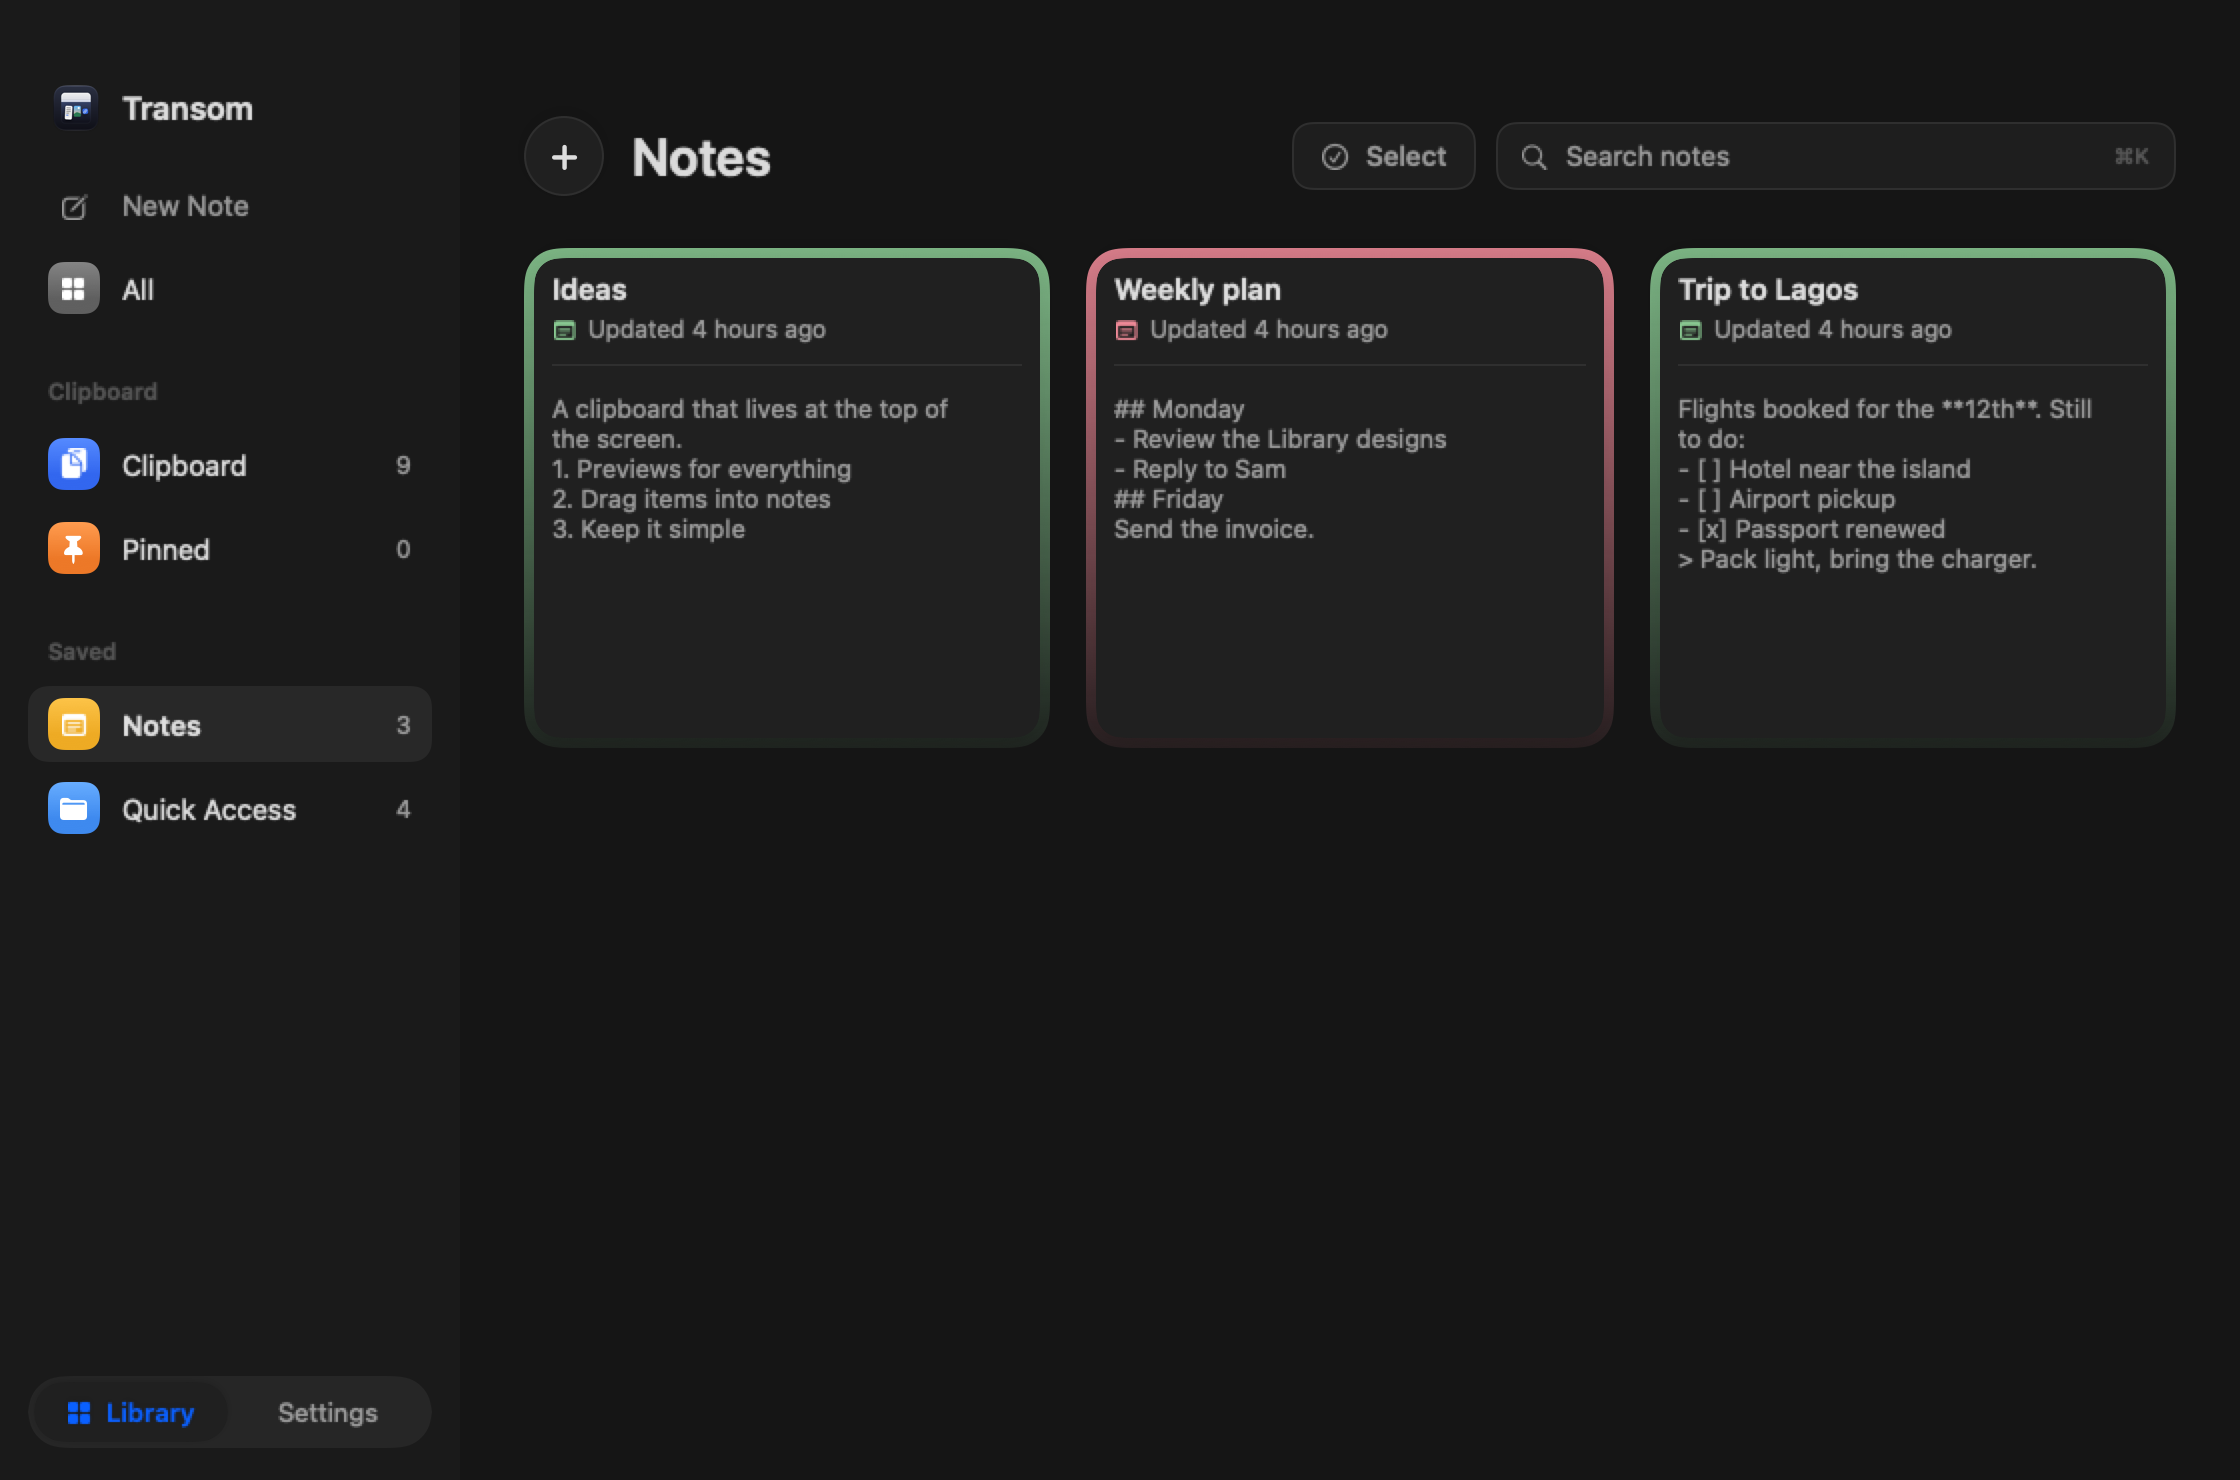
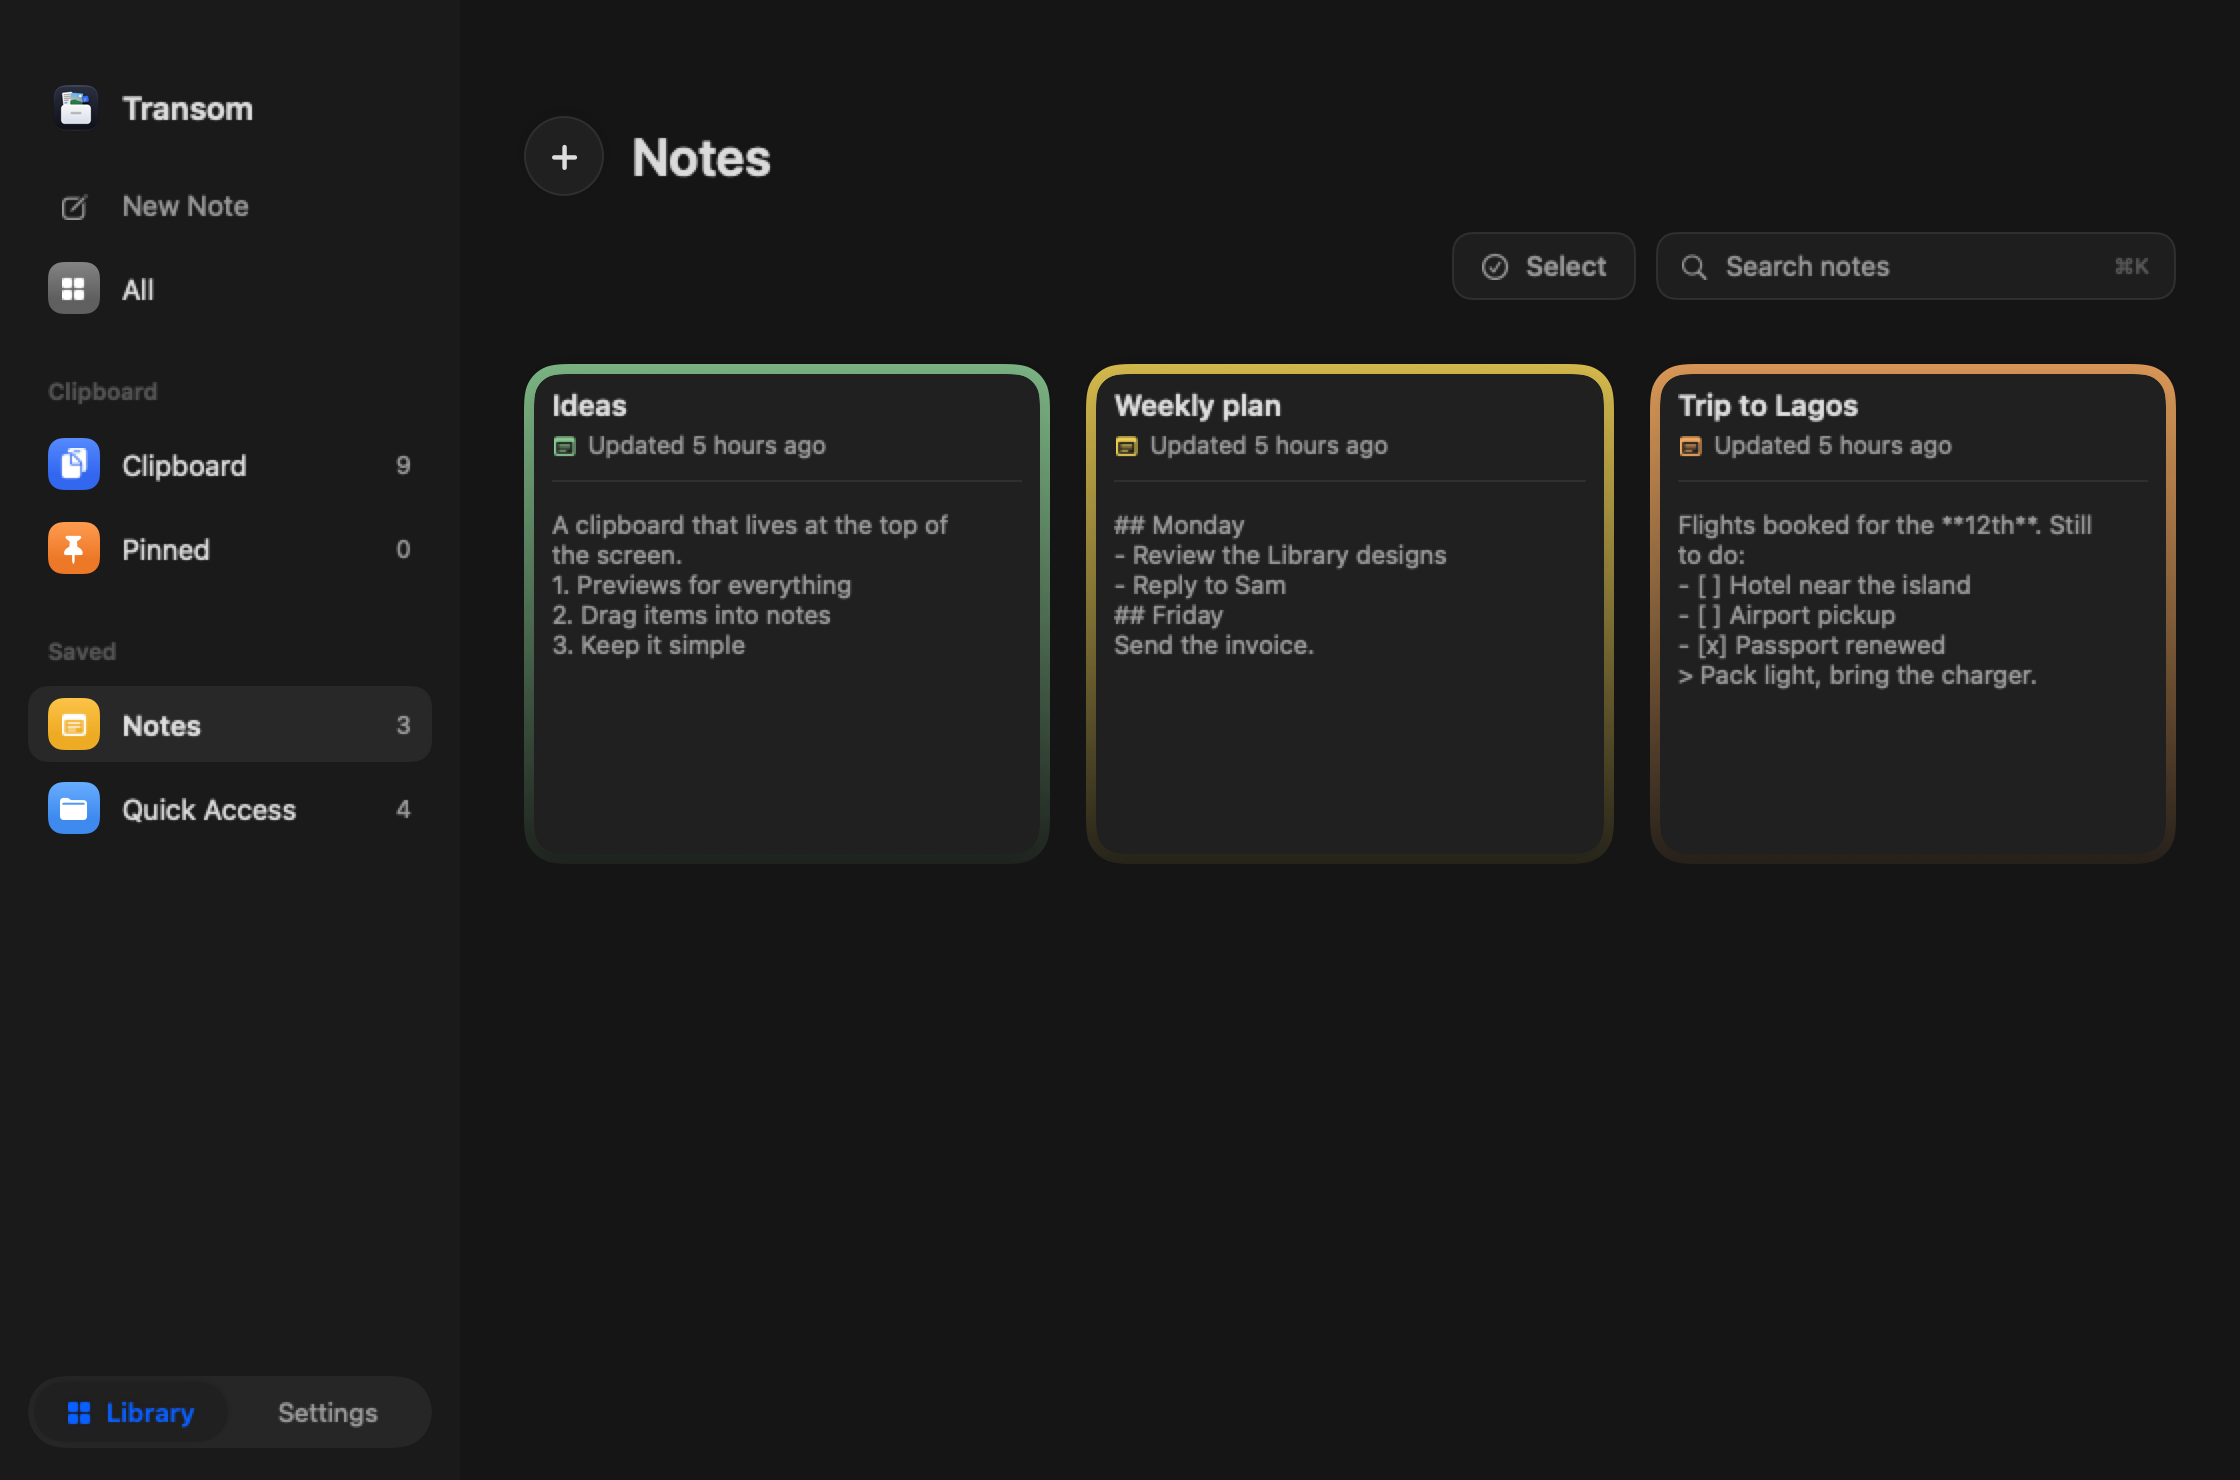
One header for every Library and Settings page: Select and Search sit in the same place
PageHeader in Theme.swift now draws the heading row and one controls row (page filters or the selection bar on the left, Select and Search on the right). Search has one width, Look.searchWidth. Library and onboarding images and the social cards are regenerated with the drawer icon and the new header.

diff --git a/Sources/Transom/Theme.swift b/Sources/Transom/Theme.swift
@@ -60,6 +60,10 @@ enum Look {
     static let controlHeight: CGFloat = 34
     /// Space between a page heading (title, subtitle, chips) and the content under it, the same on every page.
     static let headerGap: CGFloat = 26
+    /// Between a page's heading row and its controls row (filters, Select, Search).
+    static let toolbarGap: CGFloat = 18
+    /// The search field on every Library and Settings page.
+    static let searchWidth: CGFloat = 260
     static let sidebarWidth: CGFloat = 230
 }
 
@@ -140,35 +144,48 @@ struct SidebarBrand: View {
     }
 }
 
-/// Page title with Craft's round "+" button beside it.
-struct PageHeader<Trailing: View>: View {
+/// The header of every Library and Settings page, so the same controls always sit in the same place:
+///
+///     [+]  Title                                  <- row 1: the primary action (if any) and the heading
+///     filters, or the selection bar    [Select] [Search <page>  ⌘K]   <- row 2: this page's own controls on the left, then Select and Search
+///
+/// The search field has one width, height, radius and ⌘K hint everywhere and stays on the right of row 2 even when a page has
+/// no filters. `onSelect` is nil when there is nothing to select (the Select button is left out; Search does not move).
+struct PageHeader<Filters: View>: View {
     let title: String
     var subtitle: String?
     var plus: (() -> Void)?
-    /// Pages with their own toolbar row put the search field there instead.
-    var showsSearch = true
-    @ViewBuilder var trailing: () -> Trailing
+    var onSelect: (() -> Void)?
+    @ViewBuilder var filters: () -> Filters
 
     var body: some View {
-        HStack(spacing: 14) {
-            if let plus {
-                Image(systemName: "plus").font(.system(size: 15, weight: .bold)).foregroundStyle(Color.primary)
-                    .frame(width: 40, height: 40)
-                    .background(Look.card, in: Circle())
-                    .overlay(Circle().strokeBorder(Color.primary.opacity(0.08), lineWidth: 1))
-                    .shadow(color: .black.opacity(0.10), radius: 6, y: 2)
-                    .contentShape(Circle())
-                    .onTapGesture(perform: plus)
+        VStack(alignment: .leading, spacing: Look.toolbarGap) {
+            HStack(spacing: 14) {
+                if let plus {
+                    Image(systemName: "plus").font(.system(size: 15, weight: .bold)).foregroundStyle(Color.primary)
+                        .frame(width: 40, height: 40)
+                        .background(Look.card, in: Circle())
+                        .overlay(Circle().strokeBorder(Color.primary.opacity(0.08), lineWidth: 1))
+                        .shadow(color: .black.opacity(0.10), radius: 6, y: 2)
+                        .contentShape(Circle())
+                        .onTapGesture(perform: plus)
+                }
+                VStack(alignment: .leading, spacing: 2) {
+                    Text(title).font(Look.pageTitle)
+                    if let subtitle { Text(subtitle).font(Look.body).foregroundStyle(.secondary) }
+                }
+                Spacer(minLength: 0)
             }
-            VStack(alignment: .leading, spacing: 2) {
-                Text(title).font(Look.pageTitle)
-                if let subtitle { Text(subtitle).font(Look.body).foregroundStyle(.secondary) }
-            }
-            Spacer()
+            .frame(minHeight: 40)
             HStack(spacing: 10) {
-                trailing()
-                if showsSearch { SearchBarButton() }
+                filters()
+                Spacer(minLength: 12)
+                if let onSelect {
+                    Button(action: onSelect) { HeaderButtonLabel(title: "Select", symbol: "checkmark.circle") }.buttonStyle(.plain)
+                }
+                SearchBarButton()
             }
+            .frame(minHeight: Look.controlHeight)
         }
         .zIndex(10)
     }

diff --git a/Sources/Transom/Desktop.swift b/Sources/Transom/Desktop.swift
@@ -322,39 +322,26 @@ struct DesktopView: View {
         }
     }
 
-    /// Title with a round "+" where adding makes sense, and the filter chips on the clipboard page.
+    /// The shared page header: title with a round "+" where adding makes sense, then this page's filters (clipboard pages) or the
+    /// selection bar while selecting, with Select and Search on the right.
     private var header: some View {
         let isClips = nav.section == .clipboard || nav.section == .pinned
-        // On the clipboard pages the search and Select sit in the toolbar row with the filters, all one height.
-        return VStack(alignment: .leading, spacing: 18) {
-            PageHeader(title: nav.section.title, plus: plusAction, showsSearch: !isClips || selecting.value) {
-                if !selecting.value && !isClips && !visibleIDs().isEmpty { selectButton }
-            }
+        return PageHeader(title: nav.section.title, plus: plusAction,
+                          onSelect: !selecting.value && !visibleIDs().isEmpty ? { selecting.value = true } : nil) {
             if selecting.value {
                 selectionBar
             } else if isClips {
-                HStack(spacing: 10) {
-                    TimeMenu(store: clipboard)
-                    TypeMenu(store: clipboard)
-                    AppMenu(store: clipboard)
-                    if clipboard.filter != .all || clipboard.time != .any || clipboard.appFilter != nil {
-                        Button("Clear") { clipboard.filter = .all; clipboard.time = .any; clipboard.appFilter = nil }
-                            .buttonStyle(.plain).font(.system(size: 13, weight: .medium)).foregroundStyle(.secondary)
-                            .padding(.leading, 4)
-                    }
-                    Spacer(minLength: 12)
-                    if !visibleIDs().isEmpty { selectButton }
-                    SearchBarButton(width: 260)
+                TimeMenu(store: clipboard)
+                TypeMenu(store: clipboard)
+                AppMenu(store: clipboard)
+                if clipboard.filter != .all || clipboard.time != .any || clipboard.appFilter != nil {
+                    Button("Clear") { clipboard.filter = .all; clipboard.time = .any; clipboard.appFilter = nil }
+                        .buttonStyle(.plain).font(.system(size: 13, weight: .medium)).foregroundStyle(.secondary)
+                        .padding(.leading, 4)
                 }
             }
         }
-        .padding(.horizontal, 32).padding(.top, 58).padding(.bottom, Look.headerGap - 6)
-        .zIndex(10)
-    }
-
-    private var selectButton: some View {
-        Button { selecting.value = true } label: { HeaderButtonLabel(title: "Select", symbol: "checkmark.circle") }
-            .buttonStyle(.plain)
+        .padding(.horizontal, 32).padding(.top, 58).padding(.bottom, Look.headerGap)
     }
 
     private var plusAction: (() -> Void)? {

diff --git a/Sources/Transom/SearchPalette.swift b/Sources/Transom/SearchPalette.swift
@@ -17,7 +17,7 @@ private struct PaletteItem: Identifiable {
 
 /// Global search and jump: clipboard items, notes, files and app actions in one list, driven from the keyboard.
 struct SearchPalette: View {
-    /// The open search is exactly as wide as the field it opens from.
+    /// The open search is wider than the field it opens from (room for results); it grows to the left from the same corner.
     static let width: CGFloat = 340
     @ObservedObject var nav = MainNav.shared
     @ObservedObject var clipboard = AppModel.shared.clipboard
@@ -198,7 +198,7 @@ struct SearchPalette: View {
 
 /// The search field in each page header. Click it, or press ⌘K: the search opens from this corner and grows to the left.
 struct SearchBarButton: View {
-    var width: CGFloat = SearchPalette.width
+    var width: CGFloat = Look.searchWidth
     @ObservedObject var nav = MainNav.shared
     @StateObject private var hovering = Box(false)
 
